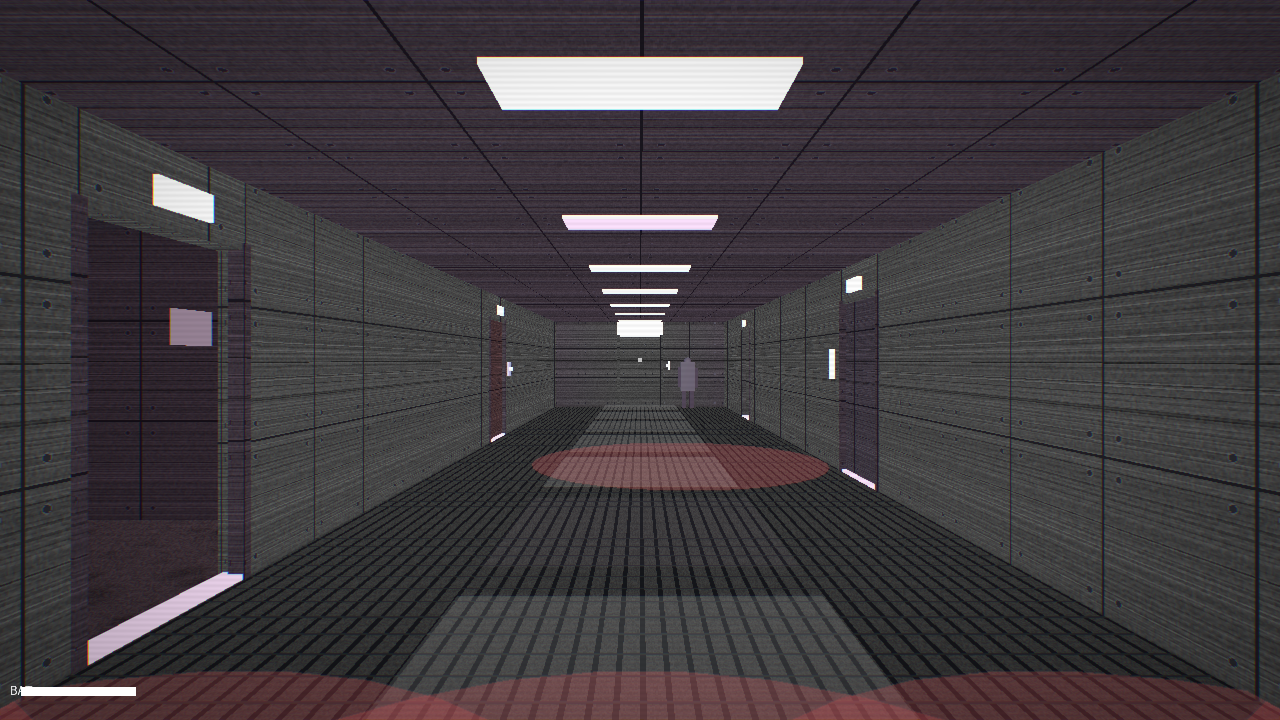
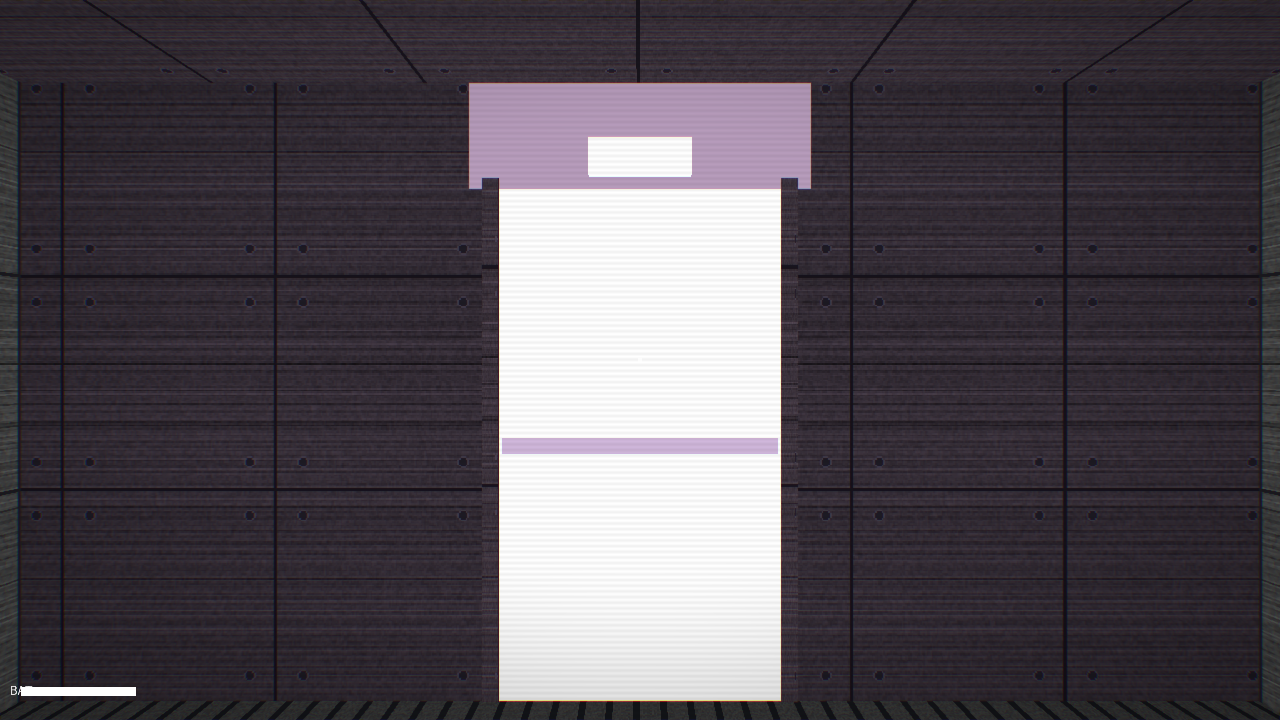
Make Act 2 entry door unambiguously a door
The previous version had three small inset 'panels' + a handle bar +
a slot indicator all parented to the door cube.  Combined with the
dark metal_panel texture multiplying the door color near to black,
those small bright pieces looked like floating objects inside an
empty doorway - so players read the doorway as an open passage with
furniture beyond, not as a closed door.

This version:

  * Single bright solid panel (rgb 200, 205, 215) with NO texture so
    it doesn't darken when multiplied.
  * Three thin horizontal seam grooves dividing it into 3 visual
    panels.
  * One small red status light corner indicator.
  * No handle bar, no inset wells.

The result is a recognizable closed door at the south end of the
Act 2 corridor where the player came from.

Screenshot updated.

diff --git a/scenes/act2_corridor.py b/scenes/act2_corridor.py
@@ -328,32 +328,25 @@ def build(game):
                           color=color.rgb(60, 65, 75),
                           collider="box"))
     # Sealed door panel where the player entered from Act 1 (north-facing).
-    # Visible AND collidable so the player can't backtrack into the void.
-    # Bright enough to read clearly as a closed door, not an open passage.
+    # Single bright solid slab with NO texture so it reads unambiguously
+    # as a closed door against the dark corridor walls.
     entry_door = Entity(model="cube",
                         scale=(1.4, 2.4, 0.10),
                         position=(0, 1.2, -6.05),
-                        color=color.rgb(170, 175, 195),
-                        texture=visuals.make_metal_panel(),
-                        texture_scale=(0.7, 1.2),
+                        color=color.rgb(200, 205, 215),
                         collider="box")
     created.append(entry_door)
-    # Two vertical inset panels on the player-facing (+z) side
-    for dx in (-0.35, 0.35):
+    # Three thin horizontal grooves to look like door panel seams
+    for dy in (0.6, 0.0, -0.6):
         Entity(parent=entry_door, model="cube",
-               scale=(0.42, 0.75, 0.30),
-               position=(dx, 0, 0.06),
-               color=color.rgb(95, 100, 120))
-    # Sealed indicator (a steady red dot - this side is locked from us)
+               scale=(0.92, 0.03, 0.30),
+               position=(0, dy, 0.51),
+               color=color.rgb(60, 65, 75))
+    # Small red status light (locked from this side)
     Entity(parent=entry_door, model="cube",
-           scale=(0.18, 0.06, 0.12),
-           position=(0.0, -0.45, 0.06),
+           scale=(0.10, 0.10, 0.20),
+           position=(0.55, 0.95, 0.51),
            color=color.rgba(220, 60, 60, 255))
-    # Handle bar across the middle
-    Entity(parent=entry_door, model="cube",
-           scale=(0.65, 0.06, 0.16),
-           position=(0, -0.05, 0.06),
-           color=color.rgb(220, 220, 230))
     # Label plate above entry door
     entry_plate = Entity(model="cube",
                          scale=(0.48, 0.18, 0.04),
